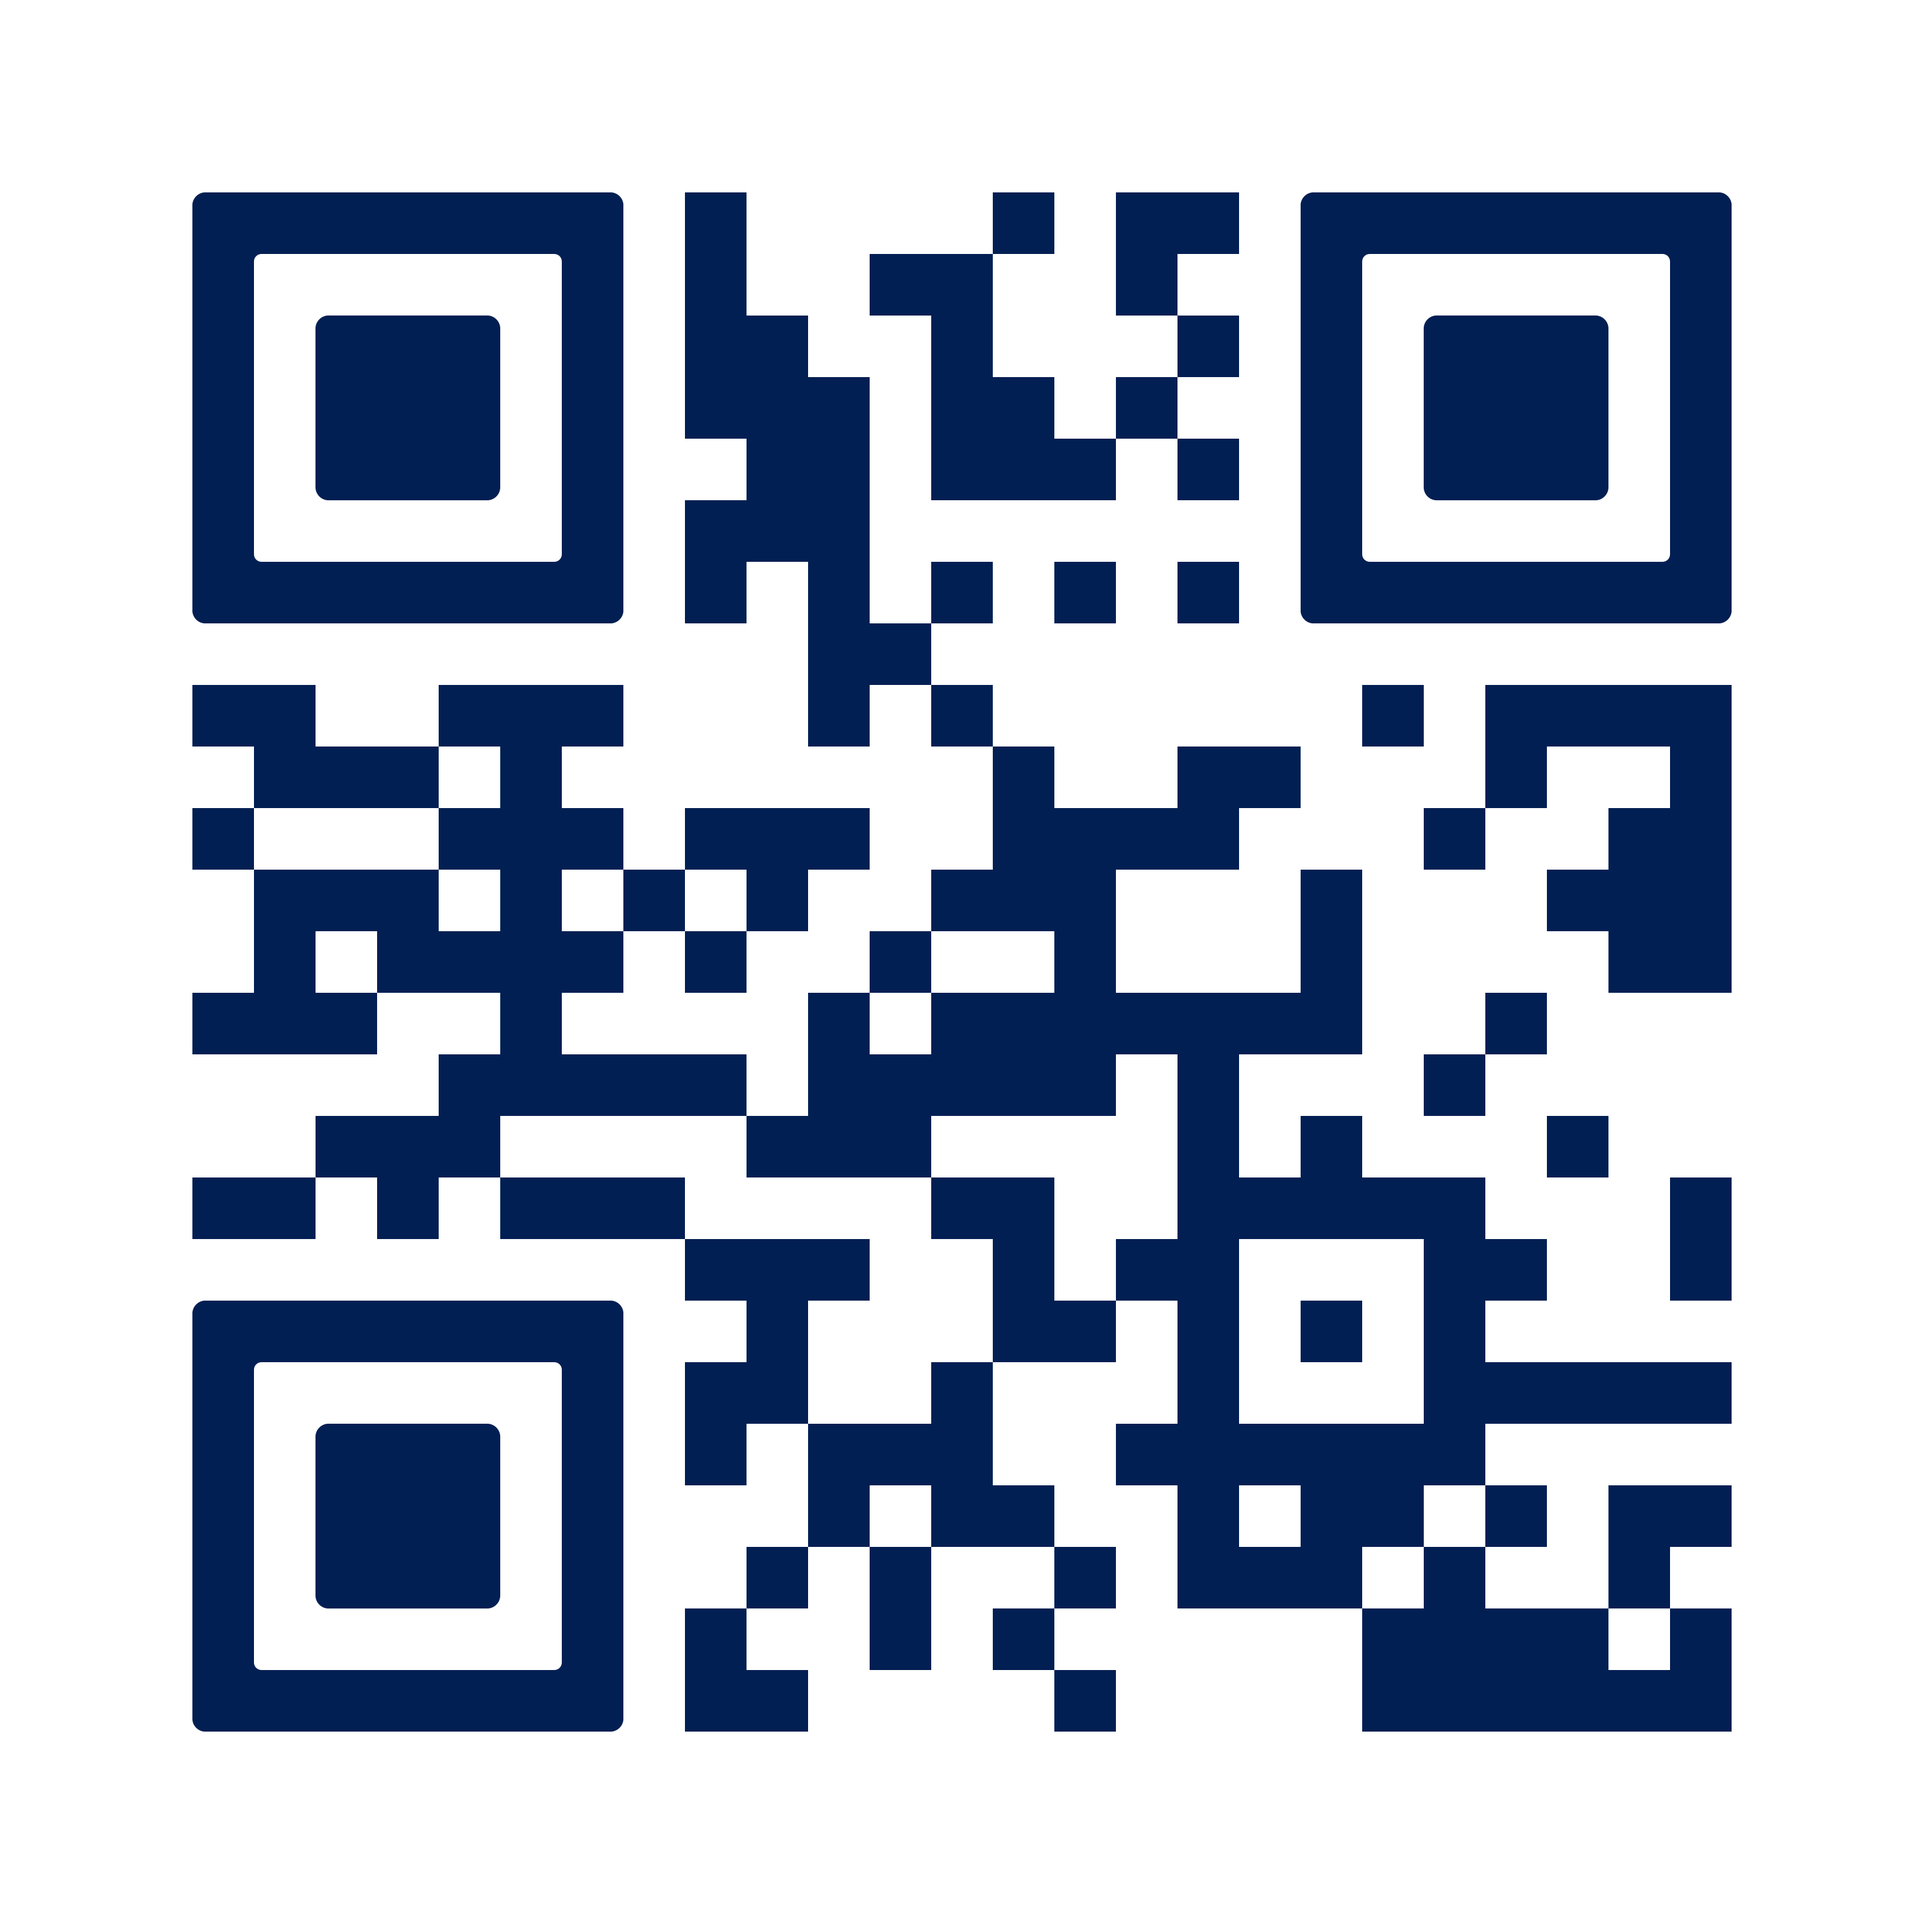
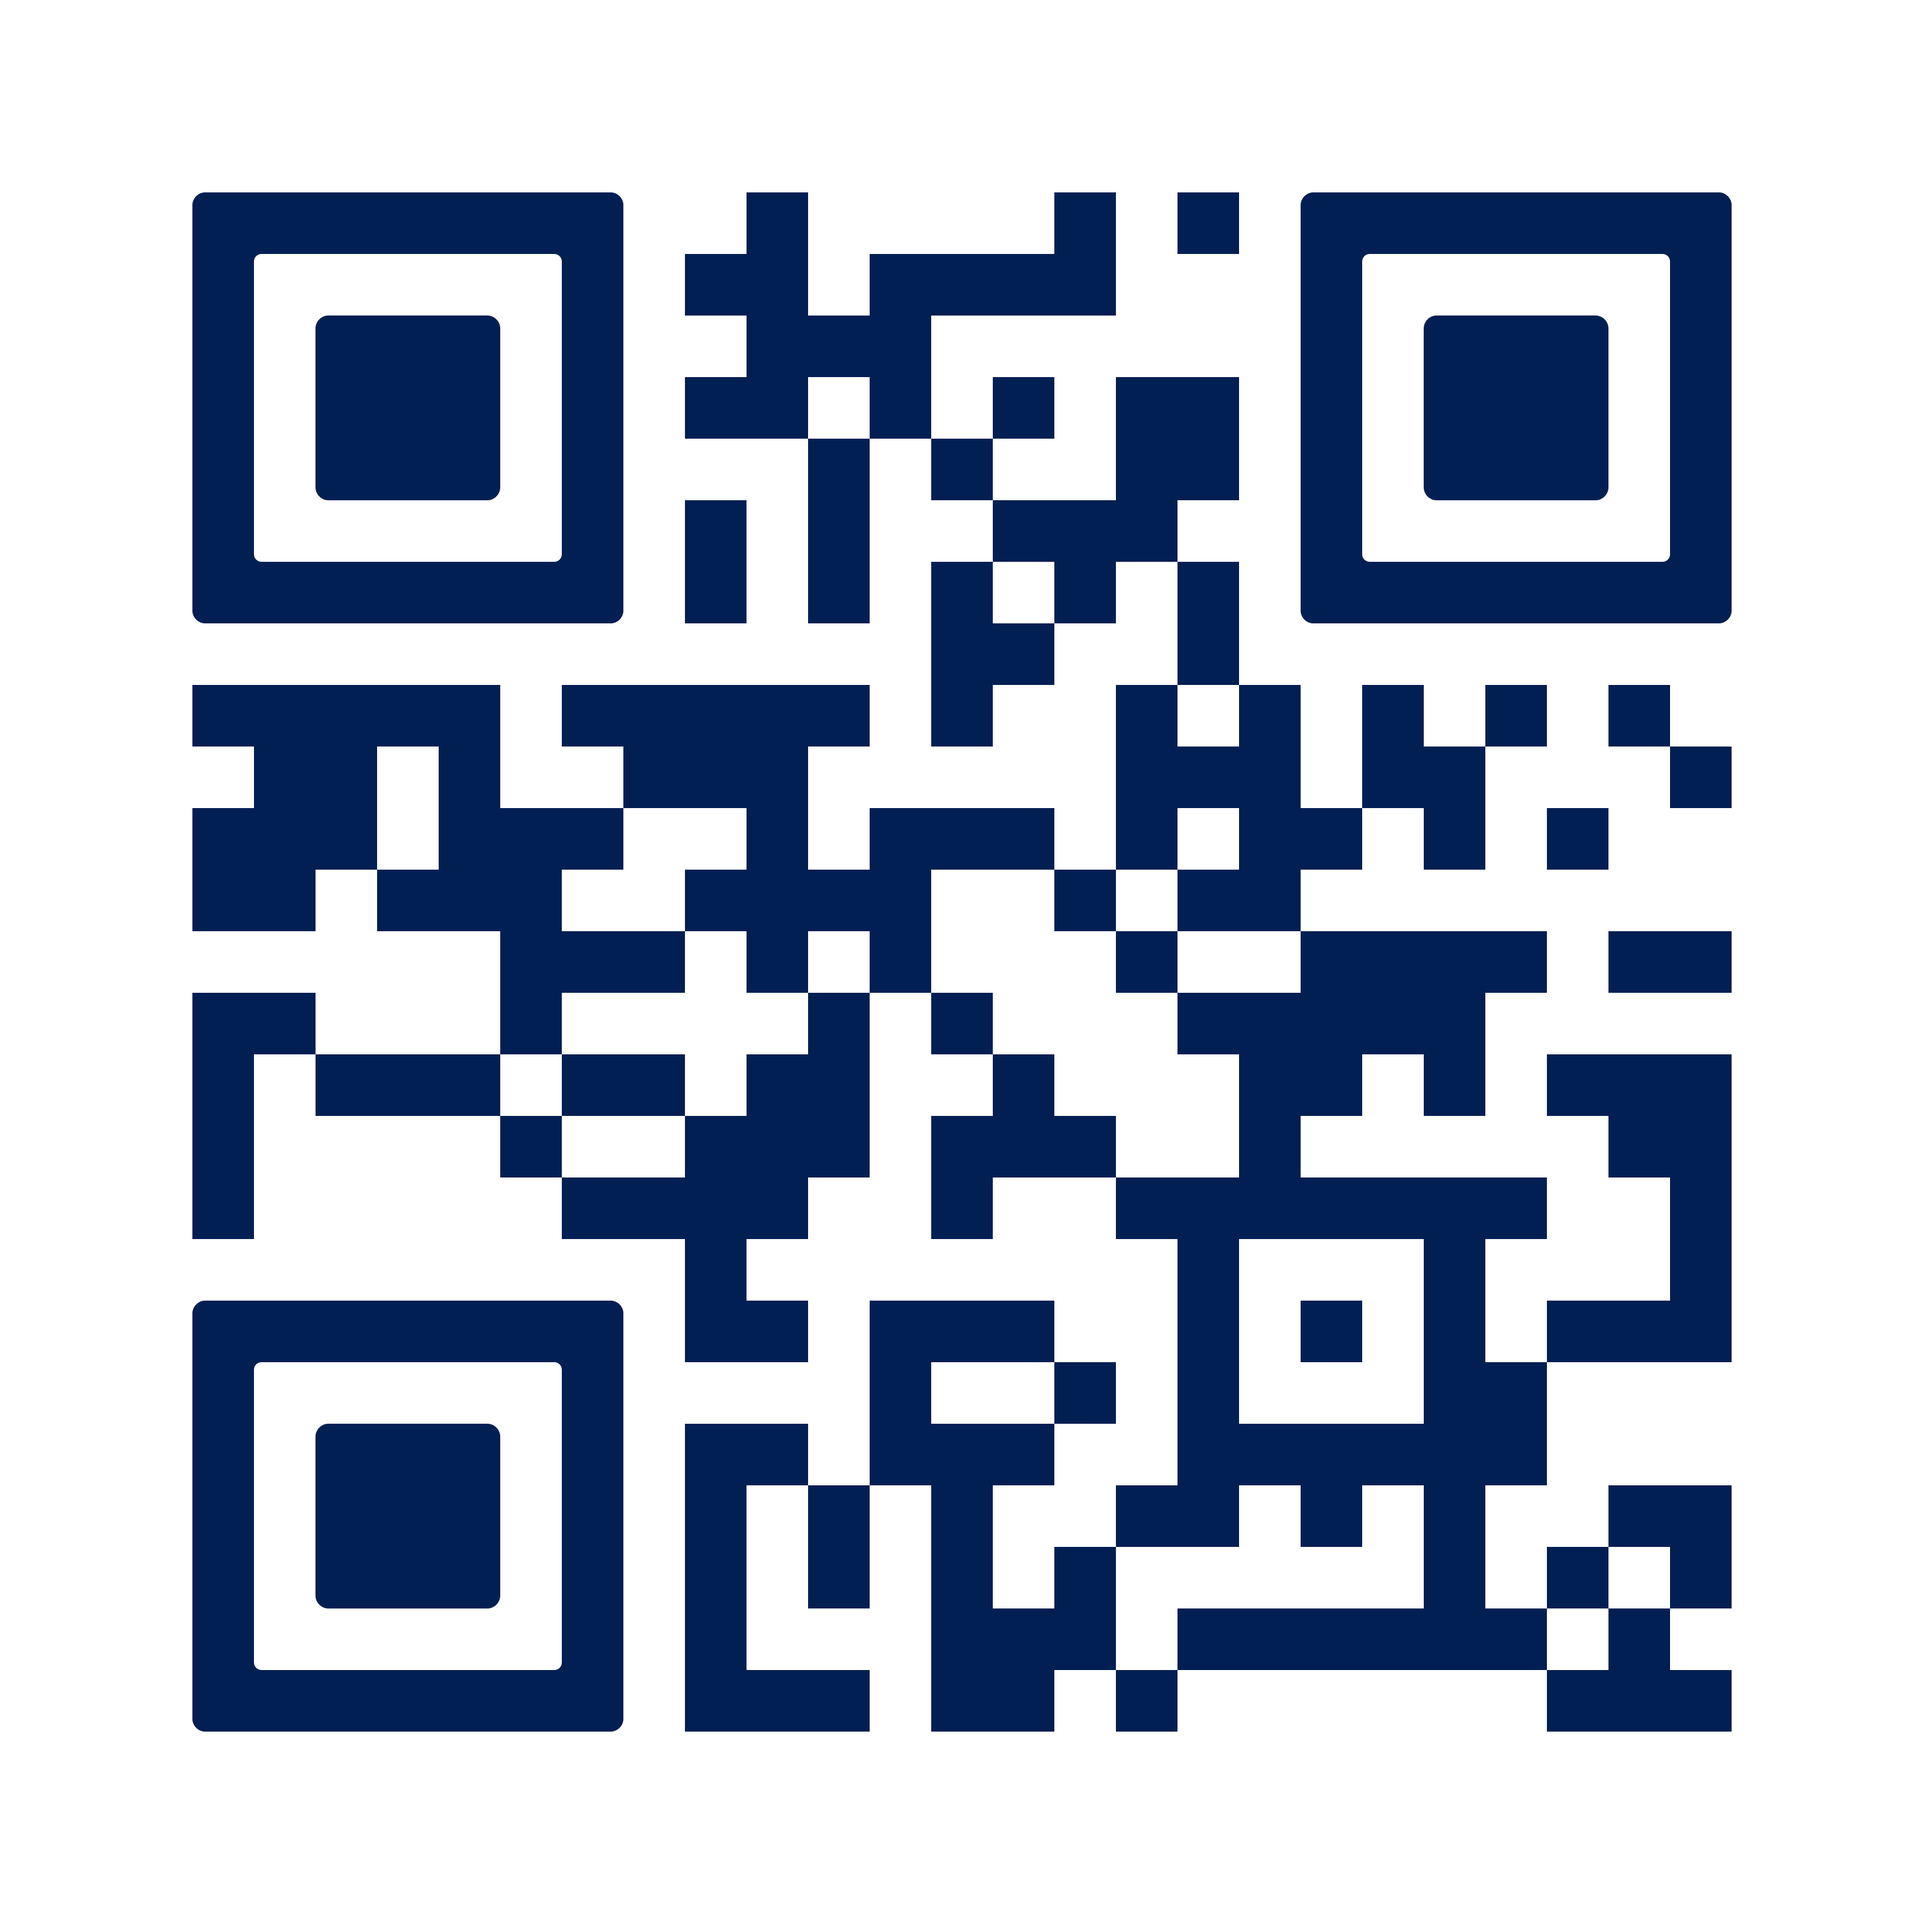
changed the survey link and qr code

Changed region(s): [[0.093, 0.093, 0.899, 0.899], [0.806, 0.806, 0.899, 0.868]]

diff --git a/landing-page/index.html b/landing-page/index.html
@@ -34,81 +34,81 @@
 
 <body>
     <!-- ════════════════ NAVBAR ════════════════ -->
-<nav class="navbar navbar-expand-lg navbar-byahero fixed-top" id="mainNav">
-    <div class="container">
-        <a class="navbar-brand d-flex align-items-center" href="#">
-            <!-- ByaHero Logo SVG -->
-            <img src="assets/images/byaheroLogoBlue.svg" alt="ByaHero Logo" class="navbar-brand-logo">
-            <span class="navbar-brand-text">ByaHero</span>
-        </a>
+    <nav class="navbar navbar-expand-lg navbar-byahero fixed-top" id="mainNav">
+        <div class="container">
+            <a class="navbar-brand d-flex align-items-center" href="#">
+                <!-- ByaHero Logo SVG -->
+                <img src="assets/images/byaheroLogoBlue.svg" alt="ByaHero Logo" class="navbar-brand-logo">
+                <span class="navbar-brand-text">ByaHero</span>
+            </a>
 
-        <button class="navbar-toggler border-0 shadow-none" type="button" data-bs-toggle="offcanvas"
-            data-bs-target="#navMenu" aria-controls="navMenu" aria-label="Toggle navigation">
-            <span class="navbar-toggler-icon"></span>
-        </button>
+            <button class="navbar-toggler border-0 shadow-none" type="button" data-bs-toggle="offcanvas"
+                data-bs-target="#navMenu" aria-controls="navMenu" aria-label="Toggle navigation">
+                <span class="navbar-toggler-icon"></span>
+            </button>
 
-        <div class="offcanvas offcanvas-end" tabindex="-1" id="navMenu">
-            <div class="offcanvas-header">
-                <h5 class="offcanvas-title fw-bold">Menu</h5>
-                <button type="button" class="btn-close" data-bs-dismiss="offcanvas" aria-label="Close"></button>
-            </div>
-            <div class="offcanvas-body">
-                <ul class="navbar-nav ms-auto align-items-lg-center gap-lg-1">
-                    <li class="nav-item"><a class="nav-link" href="#walkthroughs">Walkthroughs</a></li>
-                    <li class="nav-item"><a class="nav-link" href="#how-it-works">Survey</a></li>
-                    <li class="nav-item"><a class="nav-link" href="#roles">For Everyone</a></li>
-                    <li class="nav-item ms-lg-2">
-                        <a class="btn btn-nav-cta"
-                            href="https://github.com/ByaHero/ByaHero/releases/latest/download/byahero.apk" download>
-                            <i class="bi bi-download"></i> Get the App
-                        </a>
-                    </li>
-                </ul>
+            <div class="offcanvas offcanvas-end" tabindex="-1" id="navMenu">
+                <div class="offcanvas-header">
+                    <h5 class="offcanvas-title fw-bold">Menu</h5>
+                    <button type="button" class="btn-close" data-bs-dismiss="offcanvas" aria-label="Close"></button>
+                </div>
+                <div class="offcanvas-body">
+                    <ul class="navbar-nav ms-auto align-items-lg-center gap-lg-1">
+                        <li class="nav-item"><a class="nav-link" href="#walkthroughs">Walkthroughs</a></li>
+                        <li class="nav-item"><a class="nav-link" href="#how-it-works">Survey</a></li>
+                        <li class="nav-item"><a class="nav-link" href="#roles">For Everyone</a></li>
+                        <li class="nav-item ms-lg-2">
+                            <a class="btn btn-nav-cta"
+                                href="https://github.com/ByaHero/ByaHero/releases/latest/download/byahero.apk" download>
+                                <i class="bi bi-download"></i> Get the App
+                            </a>
+                        </li>
+                    </ul>
+                </div>
             </div>
         </div>
-    </div>
-</nav>
+    </nav>
 
     <!-- ════════════════ HERO ════════════════ -->
-<section class="hero" id="hero">
-    <div class="container">
-        <div class="row align-items-center g-5">
-            <!-- Text column -->
-            <div class="col-lg-6">
-                <div class="hero-badge">
-                    <span class="dot"></span>
-                    Live Tracking Active
+    <section class="hero" id="hero">
+        <div class="container">
+            <div class="row align-items-center g-5">
+                <!-- Text column -->
+                <div class="col-lg-6">
+                    <div class="hero-badge">
+                        <span class="dot"></span>
+                        Live Tracking Active
+                    </div>
+                    <h1 class="hero-title">
+                        Never Lose Track of<br>
+                        <span class="text-gradient">Your Byahe</span>
+                    </h1>
+                    <p class="hero-desc">
+                        Track buses in real-time, stay updated on routes and arrivals, and plan your commute smarter.
+                        ByaHero makes
+                        public
+                        transport effortless.
+                    </p>
+                    <div class="hero-actions">
+                        <a href="https://github.com/ByaHero/ByaHero/releases/latest/download/byahero.apk" download
+                            class="btn btn-hero-primary">
+                            <i class="bi bi-android2"></i> Download APK
+                        </a>
+                        <a href="https://byahero1.vercel.app" class="btn btn-hero-secondary" target="_blank"
+                            rel="noopener">
+                            <i class="bi bi-play-circle"></i> Experience ByaHero on Website
+                        </a>
+                    </div>
                 </div>
-                <h1 class="hero-title">
-                    Never Lose Track of<br>
-                    <span class="text-gradient">Your Byahe</span>
-                </h1>
-                <p class="hero-desc">
-                    Track buses in real-time, stay updated on routes and arrivals, and plan your commute smarter.
-                    ByaHero makes
-                    public
-                    transport effortless.
-                </p>
-                <div class="hero-actions">
-                    <a href="https://github.com/ByaHero/ByaHero/releases/latest/download/byahero.apk" download
-                        class="btn btn-hero-primary">
-                        <i class="bi bi-android2"></i> Download APK
-                    </a>
-                    <a href="https://byahero1.vercel.app" class="btn btn-hero-secondary" target="_blank"
-                        rel="noopener">
-                        <i class="bi bi-play-circle"></i> Experience ByaHero on Website
-                    </a>
-                </div>
-            </div>
-            <!-- Visual column -->
-            <div class="col-lg-6">
-                <div class="hero-visual">
-                    <img src="assets/images/byahero_banner.png" alt="ByaHero App Banner" class="hero-banner-img">
+                <!-- Visual column -->
+                <div class="col-lg-6">
+                    <div class="hero-visual">
+                        <img src="assets/images/byahero_banner.png" alt="ByaHero App Banner" class="hero-banner-img">
+                    </div>
                 </div>
             </div>
         </div>
-    </div>
-</section>
+    </section>
 
     <!-- ════════════════ FEATURE WALKTHROUGHS ════════════════ -->
     <section class="walkthrough-section" id="walkthroughs">
@@ -564,11 +564,12 @@
                         <span class="section-label">Feedback & Community</span>
                         <h2 class="section-heading text-start mb-3">ByaHero Capstone Study Survey</h2>
                         <p class="section-sub text-start mb-4">
-                            We are conducting this survey to gather data for our capstone study. Your responses will be
+                            We are conducting this pre assessment survey to gather data for our capstone study. Your
+                            responses will be
                             used solely for academic/research purposes.
                         </p>
                         <div class="survey-actions d-flex align-items-center gap-3">
-                            <a href="https://forms.gle/t3fS16dPxSovzbGT6" class="btn btn-hero-primary" target="_blank"
+                            <a href="https://forms.gle/d8PhoRVxhBLCWSDF8" class="btn btn-hero-primary" target="_blank"
                                 rel="noopener">
                                 <i class="bi bi-pencil-square"></i> Take the Survey
                             </a>
